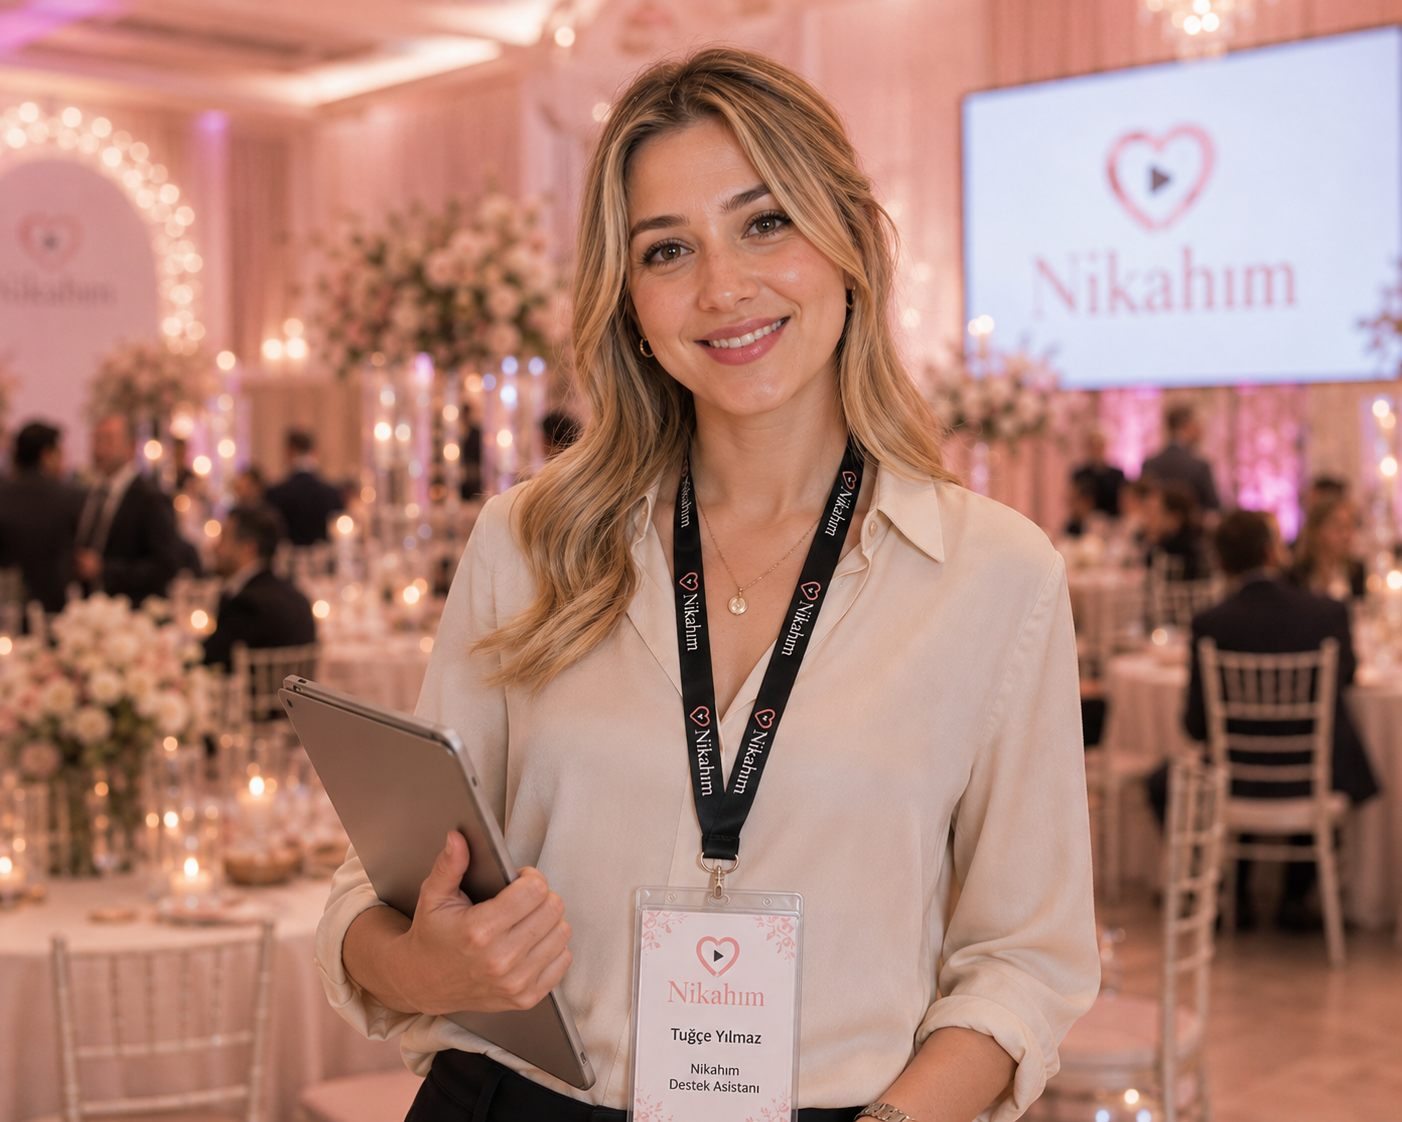
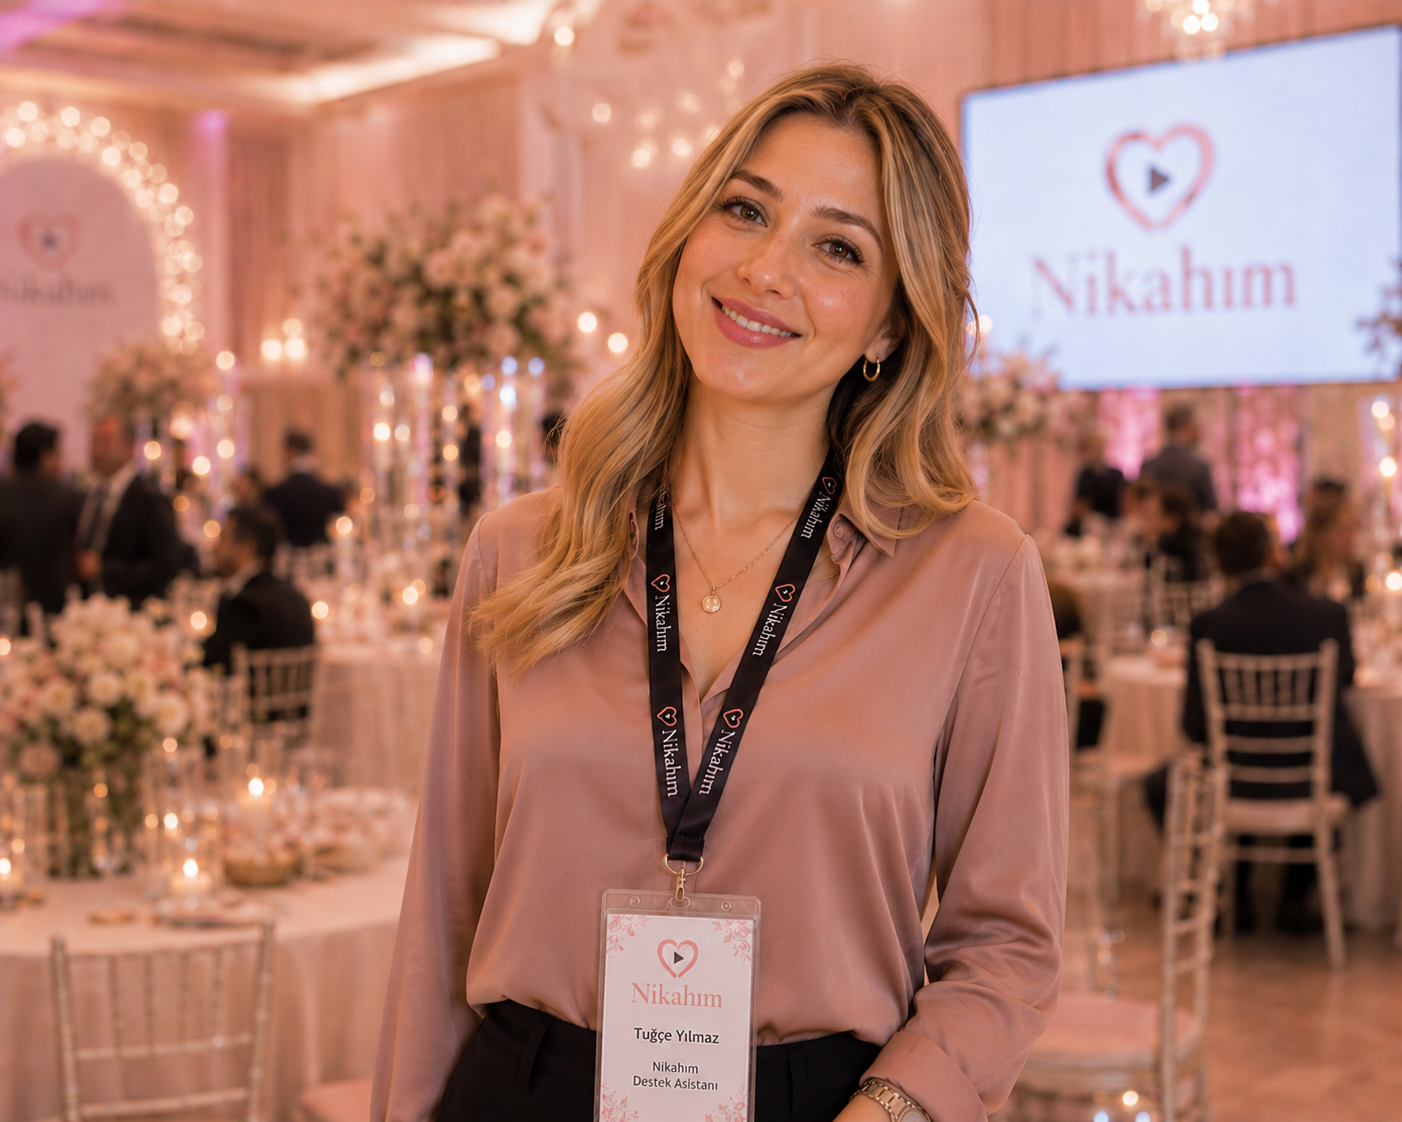
Destek kartları + fotoğrafçı metin ince ayarları
- Tüm "Canlı Destek" kartlarında (ana sayfa + canlı yayın + fotoğrafçı): sol tarafta normal sohbet ikonu geri geldi, 3 asistan profili başlığın SAĞINA (üst üste) taşındı, açıklama "Destek Asistanlarımız ile anlık sohbet"
- Asistan görselleri Tuğçe/Yusuf v2 ile güncellendi
- Fotoğrafçı: filtre "Ödeme Bekleyenler", başlık "Fotoğraf Baskı Boyu Ekle", açıklama "baskı boyutlarından", Baskı Boyutları rozeti büyütüldü (okunur)

diff --git a/app/fotografci/page.tsx b/app/fotografci/page.tsx
@@ -506,7 +506,7 @@ export default function FotografciPanel() {
                 <button key={k} onClick={() => setTab(k)} className="flex-1 py-2 rounded-lg text-[13px] font-semibold transition-all flex items-center justify-center gap-1.5" style={{ background: tab === k ? '#fff' : 'transparent', color: tab === k ? '#C8686E' : '#9A8A8A', boxShadow: tab === k ? '0 2px 6px rgba(200,104,110,0.12)' : 'none' }}>
                   {lbl}
                   {n > 0 && (k === 'sizes'
-                    ? <span className="inline-flex items-center justify-center min-w-[18px] h-[18px] px-1 rounded-[5px] text-[10px] font-bold" style={{ background: 'rgba(200,104,110,0.12)', color: '#B85258' }}>{n}</span>
+                    ? <span className="inline-flex items-center justify-center min-w-[22px] h-[20px] px-1.5 rounded-[6px] text-[12px] font-bold" style={{ background: 'rgba(200,104,110,0.14)', color: '#B85258' }}>{n}</span>
                     : <span className="inline-flex items-center justify-center min-w-[18px] h-[18px] px-1 rounded-full text-[10px] font-bold text-white" style={{ background: k === 'pending' ? '#E5484D' : '#C8686E' }}>{n}</span>)}
                 </button>
               ))}
@@ -567,7 +567,7 @@ export default function FotografciPanel() {
             {!loading && tab === 'done' && (<>
               {done.length > 0 && (
                 <div className="flex gap-1.5 mb-4">
-                  {([['all', 'Hepsi'], ['unpaid', 'Ödeme Bekliyor'], ['paid', 'Ödeme Alınanlar']] as const).map(([k, lbl]) => (
+                  {([['all', 'Hepsi'], ['unpaid', 'Ödeme Bekleyenler'], ['paid', 'Ödeme Alınanlar']] as const).map(([k, lbl]) => (
                     <button key={k} onClick={() => setDoneFilter(k)} className="px-3 py-1.5 rounded-full text-[12.5px] font-semibold transition-colors" style={{ background: doneFilter === k ? '#C8686E' : 'rgba(200,104,110,0.08)', color: doneFilter === k ? '#fff' : '#8A6E70' }}>{lbl}</button>
                   ))}
                 </div>
@@ -637,8 +637,8 @@ export default function FotografciPanel() {
             {!loading && tab === 'sizes' && (
               <div className="max-w-lg">
                 <div className="rounded-2xl p-4 mb-5 bg-white" style={{ border: '1px solid rgba(200,104,110,0.14)' }}>
-                  <h3 className="font-bold text-gray-800 mb-1">Fotoğraf Boyu Ekle</h3>
-                  <p className="text-[12.5px] text-gray-400 mb-3">Davetliler yalnızca buraya eklediğiniz boyutlardan seçebilir. Fiyatı görmeleri sipariş vermelerini kolaylaştırır.</p>
+                  <h3 className="font-bold text-gray-800 mb-1">Fotoğraf Baskı Boyu Ekle</h3>
+                  <p className="text-[12.5px] text-gray-400 mb-3">Davetliler yalnızca buraya eklediğiniz baskı boyutlarından seçebilir. Fiyatı görmeleri sipariş vermelerini kolaylaştırır.</p>
                   <div className="flex flex-wrap gap-1.5 mb-3">
                     {QUICK_SIZES.map((sz) => (
                       <button key={sz} onClick={() => { setNewSizeLabel(sz); setTimeout(() => priceRef.current?.focus(), 50); }} className="px-3 py-1.5 rounded-lg text-[12.5px] font-semibold" style={{ background: newSizeLabel === sz ? 'rgba(200,104,110,0.12)' : '#F3EEEE', color: newSizeLabel === sz ? '#C8686E' : '#7A6E6E' }}>{sz}</button>
@@ -772,17 +772,22 @@ export default function FotografciPanel() {
               <div className="flex-1 overflow-y-auto px-5 pt-5 pb-4 space-y-2.5">
                 {/* Canlı Destek */}
                 <button onClick={() => { setShowSupport(false); setTimeout(() => window.dispatchEvent(new CustomEvent('nikahim:open-chat')), 200); }} className="w-full flex items-center gap-3.5 p-4 rounded-2xl text-left" style={{ background: 'linear-gradient(180deg, rgba(255,251,247,0.85), rgba(253,243,243,0.80))', border: '1px solid rgba(232,180,170,0.25)', boxShadow: '0 2px 10px rgba(200,104,110,0.06)' }}>
-                  {/* 3 destek asistanı — üst üste yuvarlak profiller */}
-                  <div className="flex items-center flex-shrink-0" style={{ paddingLeft: 4 }}>
-                    {['/asistan-elif.png', '/asistan-tugce.png', '/asistan-yusuf.png'].map((im, i) => (
-                      <span key={im} className="w-9 h-9 rounded-full overflow-hidden bg-white" style={{ border: '2px solid #fff', marginLeft: i === 0 ? -4 : -10, boxShadow: '0 2px 6px rgba(200,104,110,0.18)', zIndex: 3 - i }}>
-                        <img src={im} alt="" className="w-full h-full object-cover" onError={(e) => { (e.currentTarget as HTMLImageElement).style.display = 'none'; }} />
-                      </span>
-                    ))}
+                  <div className="w-11 h-11 rounded-2xl flex items-center justify-center flex-shrink-0" style={{ background: 'linear-gradient(135deg, rgba(232,165,169,0.35), rgba(200,104,110,0.20))' }}>
+                    <svg className="w-5 h-5" fill="none" stroke="#9F4F58" strokeWidth="1.6" strokeLinecap="round" strokeLinejoin="round" viewBox="0 0 24 24"><path d="M21 11.5a8.5 8.5 0 01-12.5 7.5L3 21l1.9-5.7A8.5 8.5 0 1121 11.5z" /></svg>
                   </div>
                   <div className="flex-1 min-w-0">
-                    <p className="font-semibold text-[14.5px]" style={{ color: '#1F1F1F' }}>Canlı Destek</p>
-                    <p className="text-[12px] mt-0.5" style={{ color: '#8A7878' }}>Uzmanlarımızla anlık sohbet</p>
+                    <div className="flex items-center gap-2">
+                      <p className="font-semibold text-[14.5px]" style={{ color: '#1F1F1F' }}>Canlı Destek</p>
+                      {/* 3 destek asistanı — başlığın sağında üst üste */}
+                      <span className="flex items-center">
+                        {['/asistan-elif.png', '/asistan-tugce.png', '/asistan-yusuf.png'].map((im, i) => (
+                          <span key={im} className="w-6 h-6 rounded-full overflow-hidden bg-white" style={{ border: '1.5px solid #fff', marginLeft: i === 0 ? 0 : -8, boxShadow: '0 1px 4px rgba(200,104,110,0.2)', zIndex: 3 - i }}>
+                            <img src={im} alt="" className="w-full h-full object-cover" onError={(e) => { (e.currentTarget as HTMLImageElement).style.display = 'none'; }} />
+                          </span>
+                        ))}
+                      </span>
+                    </div>
+                    <p className="text-[12px] mt-0.5" style={{ color: '#8A7878' }}>Destek Asistanlarımız ile anlık sohbet</p>
                     <p className="text-[11px] mt-1 inline-flex items-center gap-1" style={{ color: '#3FB95A' }}><span className="inline-block w-1.5 h-1.5 rounded-full bg-green-500 animate-pulse" />Çevrim içi</p>
                   </div>
                   <svg className="w-4 h-4 flex-shrink-0" fill="none" stroke="#B5A8A8" strokeWidth="2" viewBox="0 0 24 24"><path strokeLinecap="round" strokeLinejoin="round" d="M9 5l7 7-7 7" /></svg>

diff --git a/app/canli/[slug]/page.tsx b/app/canli/[slug]/page.tsx
@@ -3718,8 +3718,17 @@ export default function WatchPage() {
                   </svg>
                 </div>
                 <div className="flex-1 min-w-0">
-                  <p className="font-semibold text-[14.5px]" style={{ color: '#1F1F1F' }}>Canlı Destek</p>
-                  <p className="text-[12px] mt-0.5" style={{ color: '#8A7878' }}>Anlık sohbet ile yardım al</p>
+                  <div className="flex items-center gap-2">
+                    <p className="font-semibold text-[14.5px]" style={{ color: '#1F1F1F' }}>Canlı Destek</p>
+                    <span className="flex items-center">
+                      {['/asistan-elif.png', '/asistan-tugce.png', '/asistan-yusuf.png'].map((im, i) => (
+                        <span key={im} className="w-6 h-6 rounded-full overflow-hidden bg-white" style={{ border: '1.5px solid #fff', marginLeft: i === 0 ? 0 : -8, boxShadow: '0 1px 4px rgba(200,104,110,0.2)', zIndex: 3 - i }}>
+                          <img src={im} alt="" className="w-full h-full object-cover" onError={(e) => { (e.currentTarget as HTMLImageElement).style.display = 'none'; }} />
+                        </span>
+                      ))}
+                    </span>
+                  </div>
+                  <p className="text-[12px] mt-0.5" style={{ color: '#8A7878' }}>Destek Asistanlarımız ile anlık sohbet</p>
                   <p className="text-[11px] mt-1 inline-flex items-center gap-1" style={{ color: '#3FB95A' }}>
                     <span className="inline-block w-1.5 h-1.5 rounded-full bg-green-500 animate-pulse" />
                     Çevrim içi

diff --git a/app/page.tsx b/app/page.tsx
@@ -273,8 +273,17 @@ export default function Home() {
                   </svg>
                 </div>
                 <div className="flex-1 min-w-0">
-                  <p className="font-semibold text-[14.5px]" style={{ color: '#1F1F1F' }}>Canlı Destek</p>
-                  <p className="text-[12px] mt-0.5" style={{ color: '#8A7878' }}>Anlık sohbet ile yardım al</p>
+                  <div className="flex items-center gap-2">
+                    <p className="font-semibold text-[14.5px]" style={{ color: '#1F1F1F' }}>Canlı Destek</p>
+                    <span className="flex items-center">
+                      {['/asistan-elif.png', '/asistan-tugce.png', '/asistan-yusuf.png'].map((im, i) => (
+                        <span key={im} className="w-6 h-6 rounded-full overflow-hidden bg-white" style={{ border: '1.5px solid #fff', marginLeft: i === 0 ? 0 : -8, boxShadow: '0 1px 4px rgba(200,104,110,0.2)', zIndex: 3 - i }}>
+                          <img src={im} alt="" className="w-full h-full object-cover" onError={(e) => { (e.currentTarget as HTMLImageElement).style.display = 'none'; }} />
+                        </span>
+                      ))}
+                    </span>
+                  </div>
+                  <p className="text-[12px] mt-0.5" style={{ color: '#8A7878' }}>Destek Asistanlarımız ile anlık sohbet</p>
                   <p className="text-[11px] mt-1 inline-flex items-center gap-1" style={{ color: '#3FB95A' }}>
                     <span className="inline-block w-1.5 h-1.5 rounded-full bg-green-500 animate-pulse" />
                     Çevrim içi
